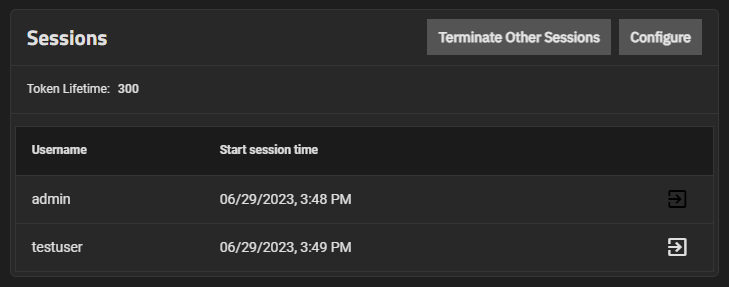
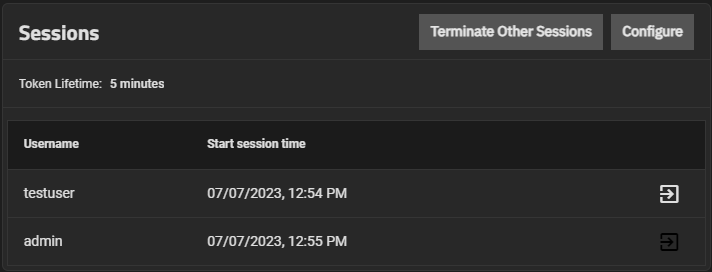
Update FirstTimeLogin, Create Widget snippet

diff --git a/content/_includes/SessionsSettingsWidget.md b/content/_includes/SessionsSettingsWidget.md
@@ -1,0 +1,41 @@
+---
+---
+
+The **Sessions** widget displays a list of all active sessions, including username and session start time.
+It also displays the **Token Lifetime** setting for your current session.
+
+{{< trueimage src="/images/SCALE/23.10/AdvancedSystemSettingsSessionsWidget.png" alt="Sessions Widget" id="7: Sessions Widget" >}}
+
+Click the logout icon <span class="material-icons">input</span> any other user sessions to terminate the individual session on that row.
+This icon cannot be used to terminate your current session.
+
+Click **Terminate Other Sessions** to end all active sessions other than your own.
+
+**Token Lifetime** displays the configured token duration for your current session (default five minutes).
+TrueNAS SCALE logs out user sessions that are inactive for longer than that user's configured token settings.
+New activity resets the token counter.
+
+If the configured token lifetime is exceeded, TrueNAS SCALE displays a **Logout** dialog.
+
+{{< trueimage src="/images/SCALE/23.10/TimeoutDialog.png" alt="Logout Dialog" id="8: Logout Dialog" >}}
+
+This dialog displays the exceeded ticket lifetime value and the time that the session will terminate.
+Click **Extend Session** to reset the token counter.
+If the button is not clicked, your session will terminate automatically and return to the log in screen.
+
+Click **Configure** to open the **Token Settings** screen and configure token lifetime for the current account.
+
+{{< trueimage src="/images/SCALE/23.10/TokenSettingsScreen.png" alt="Token Settings Screen" id="9: Token Settings Screen" >}}
+
+Select a **Token Lifetime** value that fits your needs or organizational security requirements.
+Enter the value in seconds.
+
+{{< hint type=tip >}}
+The default lifetime setting is 300 seconds, or five minutes.
+
+The minimum value allowed is 30 seconds.
+
+The maximum is 2147482 seconds, or 20 hours, 31 minutes, and 22 seconds.
+{{< /hint >}}
+
+Click **Save**.

diff --git a/content/SCALE/GettingStarted/Configure/FirstTimeLogin.md b/content/SCALE/GettingStarted/Configure/FirstTimeLogin.md
@@ -221,9 +221,18 @@ Click on **About** <span class="iconify" data-icon="ant-design:info-circle-outli
 Click the **Power** <span class="material-icons">power_settings_new</span> button open the dropdown list of power options. Options are **Log Out** which logs you out of the SCALE UI but does not power off the system, **Restart** which logs you out of the SCALE UI and restarts the server, or **Shut Down** which logs you out of the SCALE UI and powers off the system as though you pressed the power button on the physical server.
 {{< /expand >}}
 
+## Managing Sessions
+
+Click the Power icon <span class="material-icons">power_settings_new</span> on the right side of the top toolbar to access three power related settings.
+**Log Out** ends the session and returns the UI to the sign-in screen, but does not affect system power.
+**Restart** power-cycles the system.
+**Shut Down** turns the system off.
+
+To view all active sessions, go to **System Settings > Advanced**.
+{{< include file="SessionsSettingsWidget.md" type="page" >}}
+
 ## Next Steps
 
 Now that you can access the TrueNAS SCALE web interface and see all the management options, you can begin [configuring your system]({{< relref "UIConfigurationSCALE.md" >}})!
 
 {{< taglist tag="scaleconfig" limit="10" title="Related Configuration Articles" >}}
-
